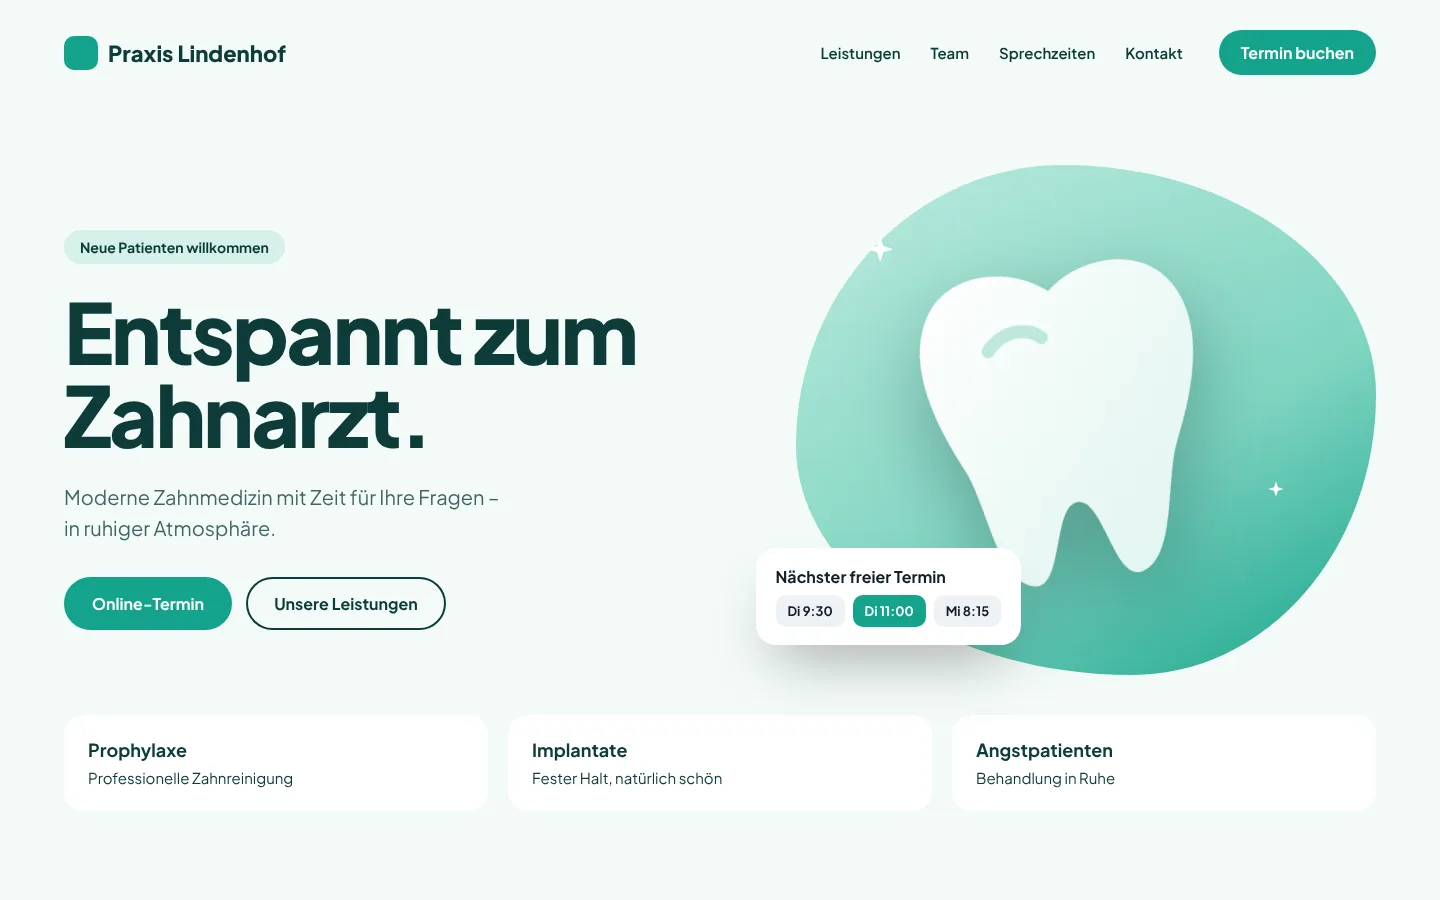
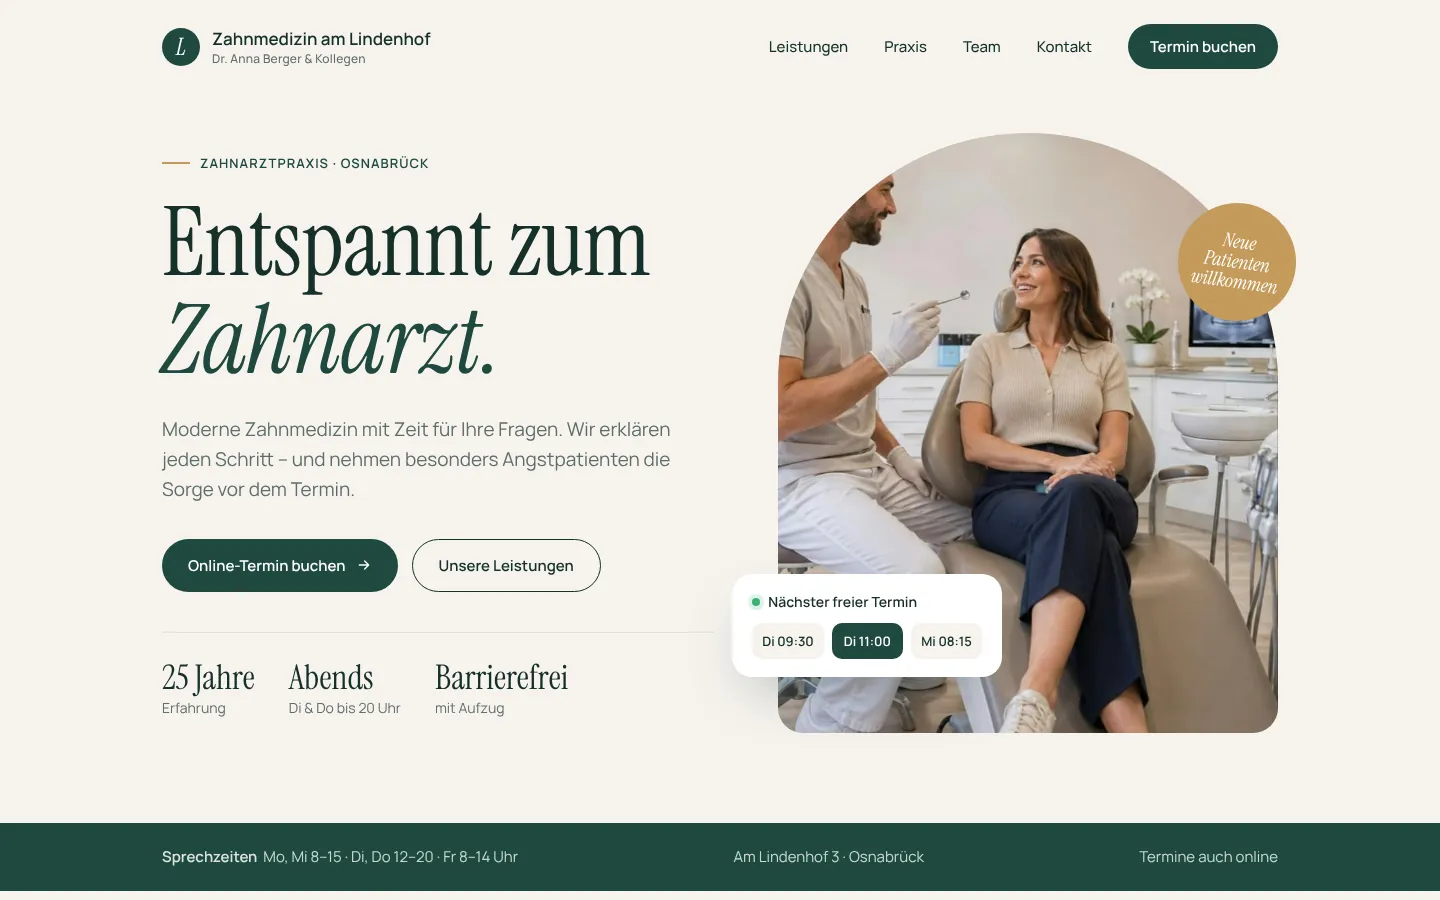
Neue Designbeispiele mit echten Fotos, Impressum/Datenschutz neu gestaltet
- Drei neue Beispielseiten (Zahnarzt, Tischlerei, Café) mit eigener Schrift,
  Farbwelt und Fotos (Unsplash-Lizenz), Desktop + Handy, ganze Seite
- Alte Beispielbilder (Fitness, Salon, Physio) entfernt, Hero-Handys angepasst
- Impressum/Datenschutz: zweispaltig, Inhalt als Karte, Umschalter zwischen den
  Seiten, automatische Nummerierung, Footer sitzt immer unten

Claude-Session: https://claude.ai/code/session_01Jgkch8kcatCnSPoRmthE8m

diff --git a/index.html b/index.html
@@ -109,7 +109,7 @@
 
         <div class="hero-stage" aria-hidden="true">
           <div class="phone phone-1"><img src="img/work/dental-m.webp" alt="" width="390" height="844"></div>
-          <div class="phone phone-2"><img src="img/work/gym-m.webp" alt="" width="390" height="844"></div>
+          <div class="phone phone-2"><img src="img/work/wood-m.webp" alt="" width="390" height="844"></div>
           <div class="phone phone-3"><img src="img/work/cafe-m.webp" alt="" width="390" height="844"></div>
 </div>
       </div>
@@ -179,7 +179,7 @@
         </div>
 
         <ul class="service-list" id="service-list">
-          <li class="service reveal" data-img="img/work/physio.webp">
+          <li class="service reveal" data-img="img/work/dental.webp">
             <h3>Neue Webseite</h3>
             <p>Ich plane und baue Ihre Seite von Grund auf: Startseite, Leistungen, Über uns und Kontakt. Passend zu Ihrer Branche, gut auf dem Handy und mit Impressum und Datenschutzerklärung.</p>
             <a class="service-arrow" href="#kontakt" data-plan="Neue Webseite" aria-label="Neue Webseite anfragen" title="Jetzt anfragen"><svg viewBox="0 0 24 24" aria-hidden="true"><path d="M7 17L17 7M9 7h8v8"/></svg></a>
@@ -189,12 +189,12 @@
             <p>Sie haben schon eine Webseite, aber sie ist in die Jahre gekommen? Ich übernehme Ihre Inhalte, bringe Design und Technik auf den neuesten Stand und achte darauf, dass Sie bei Google nicht abrutschen.</p>
             <a class="service-arrow" href="#kontakt" data-plan="Relaunch" aria-label="Relaunch anfragen" title="Jetzt anfragen"><svg viewBox="0 0 24 24" aria-hidden="true"><path d="M7 17L17 7M9 7h8v8"/></svg></a>
           </li>
-          <li class="service reveal" data-img="img/work/gym.webp">
+          <li class="service reveal" data-img="img/work/cafe.webp">
             <h3>Landingpages</h3>
             <p>Eine einzelne Seite für ein bestimmtes Angebot, eine Aktion oder eine Werbeanzeige – mit einem klaren Ziel: Anfragen.</p>
             <a class="service-arrow" href="#kontakt" data-plan="Landingpage" aria-label="Landingpages anfragen" title="Jetzt anfragen"><svg viewBox="0 0 24 24" aria-hidden="true"><path d="M7 17L17 7M9 7h8v8"/></svg></a>
           </li>
-          <li class="service reveal" data-img="img/work/salon.webp">
+          <li class="service reveal" data-img="img/work/dental.webp">
             <h3>Hosting &amp; Technik</h3>
             <p>Ich kümmere mich darum, dass Ihre Seite läuft: Server, SSL-Zertifikat, Backups und Updates. Änderungen an Texten oder Bildern mache ich bei Bedarf – abgerechnet nach Aufwand.</p>
             <a class="service-arrow" href="#betreuung" data-plan="Hosting &amp; Technik" aria-label="Hosting &amp; Technik ansehen" title="Jetzt anfragen"><svg viewBox="0 0 24 24" aria-hidden="true"><path d="M7 17L17 7M9 7h8v8"/></svg></a>
@@ -211,16 +211,16 @@
           <p>Drei Entwürfe für typische Betriebe – keine echten Kunden, sondern Beispiele für verschiedene Stile. Klicken Sie auf ein Bild, um die ganze Seite am Computer und am Handy zu sehen.</p>
         </div>
         <div class="shots">
-          <figure class="shot reveal" data-id="dental" data-url="praxis-lindenhof.de" data-desc="Ruhige Farben und viel Platz. Der Termin-Button ist immer zu sehen, damit neue Patienten auch ohne Anruf einen Termin buchen können." data-features="Online-Terminbuchung|Sprechzeiten &amp; Leistungsübersicht|Praxis-Rundgang mit Bildern|Anfahrt mit Karte">
-            <div class="shot-frame"><span class="shot-bar"><i></i><i></i><i></i><em>praxis-lindenhof.de</em></span><div class="shot-img"><img src="img/work/full/dental.webp" alt="Designbeispiel Zahnarztpraxis: komplette Startseite" loading="lazy" width="1200" height="2667"></div><span class="shot-hint">Ganze Seite ansehen</span></div>
+          <figure class="shot reveal" data-id="dental" data-url="praxis-lindenhof.de" data-desc="Ruhige Farben und viel Platz. Der Termin-Button ist immer zu sehen, damit neue Patienten auch ohne Anruf einen Termin buchen können." data-features="Online-Terminbuchung mit freien Zeiten|Leistungen mit kurzen Erklärungen|Sprechzeiten und Anfahrt|Bereich für Angstpatienten">
+            <div class="shot-frame"><span class="shot-bar"><i></i><i></i><i></i><em>praxis-lindenhof.de</em></span><div class="shot-img"><img src="img/work/full/dental.webp" alt="Designbeispiel Zahnarztpraxis: komplette Startseite" loading="lazy" width="1200" height="3581"></div><span class="shot-hint">Ganze Seite ansehen</span></div>
             <figcaption><strong>Zahnarztpraxis</strong><span>Online-Termine, Leistungen, Sprechzeiten</span></figcaption>
           </figure>
-          <figure class="shot reveal" data-id="wood" data-url="tischlerei-holm.de" data-desc="Warme Holztöne und eine klassische Schrift für einen Meisterbetrieb. Im Mittelpunkt stehen die eigenen Arbeiten." data-features="Projekt-Galerie|Leistungen mit Preisrahmen|Beratungstermin anfragen|Werkstatt &amp; Team vorstellen">
-            <div class="shot-frame"><span class="shot-bar"><i></i><i></i><i></i><em>tischlerei-holm.de</em></span><div class="shot-img"><img src="img/work/full/wood.webp" alt="Designbeispiel Tischlerei: komplette Startseite" loading="lazy" width="1200" height="2667"></div><span class="shot-hint">Ganze Seite ansehen</span></div>
+          <figure class="shot reveal" data-id="wood" data-url="tischlerei-holm.de" data-desc="Dunkle, warme Farben und eine klassische Schrift für einen Meisterbetrieb. Große Fotos zeigen die eigenen Arbeiten." data-features="Leistungen von der Küche bis zur Treppe|Projekt-Galerie|Kostenloser Beratungstermin|Inhaber und Werkstatt vorstellen">
+            <div class="shot-frame"><span class="shot-bar"><i></i><i></i><i></i><em>tischlerei-holm.de</em></span><div class="shot-img"><img src="img/work/full/wood.webp" alt="Designbeispiel Tischlerei: komplette Startseite" loading="lazy" width="1200" height="4488"></div><span class="shot-hint">Ganze Seite ansehen</span></div>
             <figcaption><strong>Tischlerei</strong><span>Leistungen, Projekte, Beratung</span></figcaption>
           </figure>
-          <figure class="shot reveal" data-id="cafe" data-url="cafe-nordlicht.de" data-desc="Verspielte Schrift und Pastellfarben. Speisekarte und Tischreservierung sind mit einem Klick erreichbar." data-features="Speisekarte mit Preisen|Tischreservierung|Tagesangebot aus der Vitrine|Torten vorbestellen">
-            <div class="shot-frame"><span class="shot-bar"><i></i><i></i><i></i><em>cafe-nordlicht.de</em></span><div class="shot-img"><img src="img/work/full/cafe.webp" alt="Designbeispiel Café: komplette Startseite" loading="lazy" width="1200" height="2667"></div><span class="shot-hint">Ganze Seite ansehen</span></div>
+          <figure class="shot reveal" data-id="cafe" data-url="cafe-nordlicht.de" data-desc="Verspielte Schrift und warme Farben. Speisekarte und Tischreservierung sind mit einem Klick erreichbar." data-features="Speisekarte mit Preisen|Tischreservierung|Tagesangebot auf der Startseite|Öffnungszeiten auf einen Blick">
+            <div class="shot-frame"><span class="shot-bar"><i></i><i></i><i></i><em>cafe-nordlicht.de</em></span><div class="shot-img"><img src="img/work/full/cafe.webp" alt="Designbeispiel Café: komplette Startseite" loading="lazy" width="1200" height="2728"></div><span class="shot-hint">Ganze Seite ansehen</span></div>
             <figcaption><strong>Café</strong><span>Speisekarte, Reservierung</span></figcaption>
           </figure>
         </div>

diff --git a/angebot/index.html b/angebot/index.html
@@ -78,7 +78,7 @@
           <p class="lp-note" data-hero-in>Antwort innerhalb von <span data-cms="response_hours">24</span> Stunden · unverbindlich</p>
         </div>
         <div class="hero-stage" aria-hidden="true">
-          <div class="phone phone-1"><img src="../img/work/physio-m.webp" alt="" width="390" height="844"></div>
+          <div class="phone phone-1"><img src="../img/work/cafe-m.webp" alt="" width="390" height="844"></div>
           <div class="phone phone-2"><img src="../img/work/dental-m.webp" alt="" width="390" height="844"></div>
           <div class="phone phone-3"><img src="../img/work/wood-m.webp" alt="" width="390" height="844"></div>
         </div>
@@ -129,16 +129,16 @@
           <p>Entwürfe für typische Betriebe – keine echten Kunden, sondern Beispiele für verschiedene Stile. Klicken Sie auf ein Bild, um die ganze Seite zu sehen.</p>
         </div>
         <div class="shots lp-shots">
-          <figure class="shot reveal" data-id="dental" data-url="praxis-lindenhof.de" data-desc="Ruhige Farben und viel Platz. Der Termin-Button ist immer zu sehen, damit neue Patienten auch ohne Anruf einen Termin buchen können." data-features="Online-Terminbuchung|Sprechzeiten &amp; Leistungsübersicht|Praxis-Rundgang mit Bildern|Anfahrt mit Karte">
-            <div class="shot-frame"><span class="shot-bar"><i></i><i></i><i></i><em>praxis-lindenhof.de</em></span><div class="shot-img"><img src="../img/work/full/dental.webp" alt="Designbeispiel Zahnarztpraxis: komplette Startseite" loading="lazy" width="1200" height="2667"></div><span class="shot-hint">Ganze Seite ansehen</span></div>
+          <figure class="shot reveal" data-id="dental" data-url="praxis-lindenhof.de" data-desc="Ruhige Farben und viel Platz. Der Termin-Button ist immer zu sehen, damit neue Patienten auch ohne Anruf einen Termin buchen können." data-features="Online-Terminbuchung mit freien Zeiten|Leistungen mit kurzen Erklärungen|Sprechzeiten und Anfahrt|Bereich für Angstpatienten">
+            <div class="shot-frame"><span class="shot-bar"><i></i><i></i><i></i><em>praxis-lindenhof.de</em></span><div class="shot-img"><img src="../img/work/full/dental.webp" alt="Designbeispiel Zahnarztpraxis: komplette Startseite" loading="lazy" width="1200" height="3581"></div><span class="shot-hint">Ganze Seite ansehen</span></div>
             <figcaption><strong>Zahnarztpraxis</strong><span>Online-Termine, Leistungen</span></figcaption>
           </figure>
-          <figure class="shot reveal" data-id="wood" data-url="tischlerei-holm.de" data-desc="Warme Holztöne und eine klassische Schrift für einen Meisterbetrieb. Im Mittelpunkt stehen die eigenen Arbeiten." data-features="Projekt-Galerie|Leistungen mit Preisrahmen|Beratungstermin anfragen|Werkstatt &amp; Team vorstellen">
-            <div class="shot-frame"><span class="shot-bar"><i></i><i></i><i></i><em>tischlerei-holm.de</em></span><div class="shot-img"><img src="../img/work/full/wood.webp" alt="Designbeispiel Tischlerei: komplette Startseite" loading="lazy" width="1200" height="2667"></div><span class="shot-hint">Ganze Seite ansehen</span></div>
+          <figure class="shot reveal" data-id="wood" data-url="tischlerei-holm.de" data-desc="Dunkle, warme Farben und eine klassische Schrift für einen Meisterbetrieb. Große Fotos zeigen die eigenen Arbeiten." data-features="Leistungen von der Küche bis zur Treppe|Projekt-Galerie|Kostenloser Beratungstermin|Inhaber und Werkstatt vorstellen">
+            <div class="shot-frame"><span class="shot-bar"><i></i><i></i><i></i><em>tischlerei-holm.de</em></span><div class="shot-img"><img src="../img/work/full/wood.webp" alt="Designbeispiel Tischlerei: komplette Startseite" loading="lazy" width="1200" height="4488"></div><span class="shot-hint">Ganze Seite ansehen</span></div>
             <figcaption><strong>Handwerk</strong><span>Referenzen, Anfrageformular</span></figcaption>
           </figure>
-          <figure class="shot reveal" data-id="cafe" data-url="cafe-nordlicht.de" data-desc="Verspielte Schrift und Pastellfarben. Speisekarte und Tischreservierung sind mit einem Klick erreichbar." data-features="Speisekarte mit Preisen|Tischreservierung|Tagesangebot aus der Vitrine|Torten vorbestellen">
-            <div class="shot-frame"><span class="shot-bar"><i></i><i></i><i></i><em>cafe-nordlicht.de</em></span><div class="shot-img"><img src="../img/work/full/cafe.webp" alt="Designbeispiel Café: komplette Startseite" loading="lazy" width="1200" height="2667"></div><span class="shot-hint">Ganze Seite ansehen</span></div>
+          <figure class="shot reveal" data-id="cafe" data-url="cafe-nordlicht.de" data-desc="Verspielte Schrift und warme Farben. Speisekarte und Tischreservierung sind mit einem Klick erreichbar." data-features="Speisekarte mit Preisen|Tischreservierung|Tagesangebot auf der Startseite|Öffnungszeiten auf einen Blick">
+            <div class="shot-frame"><span class="shot-bar"><i></i><i></i><i></i><em>cafe-nordlicht.de</em></span><div class="shot-img"><img src="../img/work/full/cafe.webp" alt="Designbeispiel Café: komplette Startseite" loading="lazy" width="1200" height="2728"></div><span class="shot-hint">Ganze Seite ansehen</span></div>
             <figcaption><strong>Gastronomie</strong><span>Speisekarte, Reservierung</span></figcaption>
           </figure>
         </div>

diff --git a/datenschutz.html b/datenschutz.html
@@ -38,18 +38,24 @@
   </header>
 
   <main class="legal">
-    <div class="container">
-      <a href="index.html" class="legal-back">← Zurück zur Startseite</a>
-      <h1>Datenschutzerklärung</h1>
+    <div class="container legal-grid">
+      <aside class="legal-side">
+        <a href="index.html" class="legal-back">← Zurück zur Startseite</a>
+        <p class="legal-kicker">Rechtliches</p>
+        <h1>Datenschutzerklärung</h1>
+        <p class="legal-lead">Welche Daten beim Besuch dieser Webseite verarbeitet werden – und warum.</p>
+        <nav class="legal-switch" aria-label="Rechtliche Seiten"><a href="impressum.html">Impressum</a><a href="datenschutz.html" aria-current="page">Datenschutz</a></nav>
+      </aside>
+      <article class="legal-card legal-numbered">
 
-      <h2>1. Verantwortlicher</h2>
+      <h2>Verantwortlicher</h2>
       <p>
         LoggX, Inhaber Constantin Moritz Loggen<br>
         <span data-cms="street">Zum Himmelreich 5</span>, <span data-cms="city">49082 Osnabrück</span><br>
         E-Mail: <span data-cms="email">constantinloggen@icloud.com</span>
       </p>
 
-      <h2>2. Hosting und Server-Logfiles</h2>
+      <h2>Hosting und Server-Logfiles</h2>
       <p>
         Beim Aufruf dieser Webseite verarbeitet der Hosting-Anbieter
         <span class="placeholder" data-cms="hoster">Name und Anschrift des Hosters</span> automatisch Informationen wie
@@ -57,7 +63,7 @@
         erfolgt auf Grundlage von Art. 6 Abs. 1 lit. f DSGVO zur sicheren und stabilen Bereitstellung der Webseite.
       </p>
 
-      <h2>3. Kontaktformular und E-Mail</h2>
+      <h2>Kontaktformular und E-Mail</h2>
       <p>
         Wenn Sie mich über das Kontaktformular oder per E-Mail kontaktieren, werden Ihre Angaben
         (Name, E-Mail-Adresse, ggf. Firma und Nachricht) zur Bearbeitung der Anfrage gespeichert.
@@ -66,13 +72,13 @@
         Aufbewahrungspflichten entgegenstehen.
       </p>
 
-      <h2>4. Schriftarten</h2>
+      <h2>Schriftarten</h2>
       <p>
         Schriftarten werden lokal von diesem Server geladen. Es findet
         dabei keine Verbindung zu Servern Dritter (z.&nbsp;B. Google Fonts) statt.
       </p>
 
-      <h2>5. Ihre Rechte</h2>
+      <h2>Ihre Rechte</h2>
       <ul>
         <li>Auskunft über Ihre gespeicherten Daten (Art. 15 DSGVO)</li>
         <li>Berichtigung unrichtiger Daten (Art. 16 DSGVO)</li>
@@ -82,7 +88,7 @@
         <li>Beschwerde bei einer Datenschutz-Aufsichtsbehörde</li>
       </ul>
 
-      <h2>6. Cookies</h2>
+      <h2>Cookies</h2>
       <p>
         Diese Webseite setzt ein technisch notwendiges Cookie („loggx_consent“), das Ihre Cookie-Auswahl
         für 365 Tage speichert (Art. 6 Abs. 1 lit. f DSGVO, § 25 Abs. 2 TDDDG). Statistik-Cookies werden nur
@@ -93,14 +99,14 @@
       <div data-cms-if="stats_text"><p data-cms="stats_text"><span class="placeholder">Falls ein Statistik-Tool (z. B. Google Analytics, Matomo) eingesetzt wird, hier Anbieter, Zweck und Speicherdauer ergänzen.</span></p></div>
 
       <div data-cms-if="thumio">
-      <h2>7. Screenshot-Vorschau (Referenzen)</h2>
+      <h2>Screenshot-Vorschau (Referenzen)</h2>
       <p>
         Zur Darstellung von Vorschaubildern der Referenzprojekte wird der Dienst image.thum.io genutzt; dabei wird
         Ihre IP-Adresse an diesen Anbieter übermittelt.
       </p>
       </div>
 
-      <h2>8. Benachrichtigung zum Launch</h2>
+      <h2>Benachrichtigung zum Launch</h2>
       <p>
         Vor dem Start der Webseite können Sie sich auf der Startseite eintragen, um einmalig per E-Mail über den Launch
         informiert zu werden. Gespeichert werden Ihre E-Mail-Adresse und der Zeitpunkt der Eintragung, ausschließlich
@@ -108,13 +114,14 @@
         jederzeit per E-Mail widerrufen können. Nach dem Versand der Benachrichtigung wird die Adresse gelöscht.
       </p>
 
-      <h2>9. Zugangscodes (Vorschau)</h2>
+      <h2>Zugangscodes (Vorschau)</h2>
       <p>
         Wer einen Zugangscode nutzt, erhält ein technisch notwendiges Cookie („loggx_zugang“), damit die Vorschau der
         Webseite angezeigt werden kann. Es enthält keine personenbezogenen Daten und läuft nach spätestens 30 Tagen ab.
       </p>
 
       <p data-placeholder-note><small>Hinweis: Die gelb markierten Felder müssen vor Veröffentlichung ausgefüllt werden. Diese Erklärung ist eine Vorlage und ersetzt keine Rechtsberatung.</small></p>
+      </article>
     </div>
   </main>
 

diff --git a/css/style.css b/css/style.css
@@ -523,12 +523,38 @@ body.preview-open { overflow: hidden; }
 .footer-copy { margin: 0; font-size: .9rem; }
 
 /* ---------- Unterseiten (Impressum, Datenschutz, Danke) ---------- */
-.legal { padding: calc(var(--header-h) + 60px) 0 100px; background: var(--bg-alt); min-height: 70vh; }
-.legal .container { max-width: 820px; }
-.legal h1 { font-size: clamp(2.2rem, 4.5vw, 3.4rem); font-weight: 800; letter-spacing: -0.04em; margin: 1rem 0 2rem; }
-.legal h2 { font-size: 1.4rem; font-stretch: 100%; margin: 2.2rem 0 .7rem; letter-spacing: -0.01em; }
-.legal-back { font-weight: 700; text-decoration: none; }
-.legal-back:hover { color: var(--cobalt); }
+/* ---------- Unterseiten (Impressum, Datenschutz, Danke) ---------- */
+.page-sub { min-height: 100vh; min-height: 100dvh; display: flex; flex-direction: column; }
+.page-sub main { flex: 1 0 auto; }
+body.page-sub { padding-bottom: 0; }
+.legal { padding: calc(var(--header-h) + clamp(36px, 6vw, 72px)) 0 clamp(64px, 8vw, 110px); background: var(--bg-alt); }
+.legal h1 { font-size: clamp(2.2rem, 4.5vw, 3.4rem); font-weight: 800; letter-spacing: -0.04em; line-height: 1.02; margin: .4rem 0 1rem; overflow-wrap: anywhere; hyphens: auto; }
+.legal-back { display: inline-flex; align-items: center; gap: 6px; font-weight: 700; font-size: .95rem; text-decoration: none; color: var(--text-muted); transition: color .2s, gap .25s var(--ease); }
+.legal-back:hover { color: var(--text); gap: 10px; }
+.legal-grid { display: grid; grid-template-columns: minmax(240px, 320px) minmax(0, 1fr); gap: clamp(32px, 6vw, 88px); align-items: start; }
+.legal-side { position: sticky; top: calc(var(--header-h) + 32px); }
+.legal-kicker { margin: 2rem 0 0; color: var(--text-muted); font-weight: 700; font-size: .82rem; letter-spacing: .14em; text-transform: uppercase; }
+.legal-side h1::after { content: ""; display: block; width: 56px; height: 5px; border-radius: 3px; background: var(--sun); margin-top: 18px; }
+.legal-lead { color: var(--text-muted); margin: 0 0 1.6rem; max-width: 28ch; }
+.legal-switch { display: inline-flex; padding: 4px; border-radius: 999px; background: var(--surface); box-shadow: inset 0 0 0 1px var(--border); }
+.legal-switch a { padding: .5rem 1rem; border-radius: 999px; font-weight: 700; font-size: .9rem; text-decoration: none; color: var(--text-muted); transition: color .2s, background .2s; }
+.legal-switch a:hover { color: var(--text); }
+.legal-switch a[aria-current] { background: var(--btn); color: var(--btn-fg); }
+.legal-card { background: var(--surface); border-radius: var(--radius-l); padding: clamp(26px, 4.5vw, 56px); box-shadow: 0 1px 0 var(--border), 0 30px 60px -40px var(--shadow); border: 1px solid var(--border); max-width: 820px; }
+.legal-card > h2:first-child, .legal-card > div:first-child > h2:first-child { margin-top: 0; padding-top: 0; border-top: 0; }
+.legal-card h2 { font-size: 1.2rem; font-stretch: 100%; letter-spacing: -0.01em; margin: 1.8rem 0 .6rem; padding-top: 1.8rem; border-top: 1px solid var(--border); }
+.legal-card p, .legal-card ul { color: var(--text-2); margin: 0 0 .8rem; }
+.legal-card ul { padding-left: 1.2rem; }
+.legal-card li { margin: .25rem 0; }
+.legal-card a { color: inherit; text-decoration-color: var(--sun); text-decoration-thickness: 2px; text-underline-offset: 3px; }
+.legal-numbered { counter-reset: lg; }
+.legal-numbered h2 { counter-increment: lg; display: flex; gap: .7rem; align-items: baseline; }
+.legal-numbered h2::before { content: counter(lg); flex: 0 0 auto; display: inline-grid; place-items: center; min-width: 1.9rem; height: 1.9rem; border-radius: 50%; background: var(--bg-alt); color: var(--text); font-size: .85rem; font-weight: 800; box-shadow: inset 0 0 0 1px var(--border); }
+@media (max-width: 900px) {
+  .legal-grid { grid-template-columns: 1fr; gap: 28px; }
+  .legal-side { position: static; }
+  .legal-kicker { margin-top: 1.4rem; }
+}
 .placeholder { background: #FFF1C2; color: var(--ink); padding: 0 4px; border-radius: 4px; }
 .thanks { text-align: center; display: grid; justify-items: center; }
 .thanks p { max-width: 50ch; color: var(--text-muted); margin-bottom: 2rem; }

diff --git a/impressum.html b/impressum.html
@@ -38,9 +38,15 @@
   </header>
 
   <main class="legal">
-    <div class="container">
-      <a href="index.html" class="legal-back">← Zurück zur Startseite</a>
-      <h1>Impressum</h1>
+    <div class="container legal-grid">
+      <aside class="legal-side">
+        <a href="index.html" class="legal-back">← Zurück zur Startseite</a>
+        <p class="legal-kicker">Rechtliches</p>
+        <h1>Impressum</h1>
+        <p class="legal-lead">Angaben zum Anbieter dieser Webseite.</p>
+        <nav class="legal-switch" aria-label="Rechtliche Seiten"><a href="impressum.html" aria-current="page">Impressum</a><a href="datenschutz.html">Datenschutz</a></nav>
+      </aside>
+      <article class="legal-card">
 
       <h2>Angaben gemäß § 5 DDG</h2>
       <p>
@@ -75,6 +81,7 @@
       </p>
 
       <p data-placeholder-note><small>Hinweis: Die gelb markierten Felder müssen vor Veröffentlichung ausgefüllt werden. Dieses Impressum ist eine Vorlage und ersetzt keine Rechtsberatung.</small></p>
+      </article>
     </div>
   </main>
 
